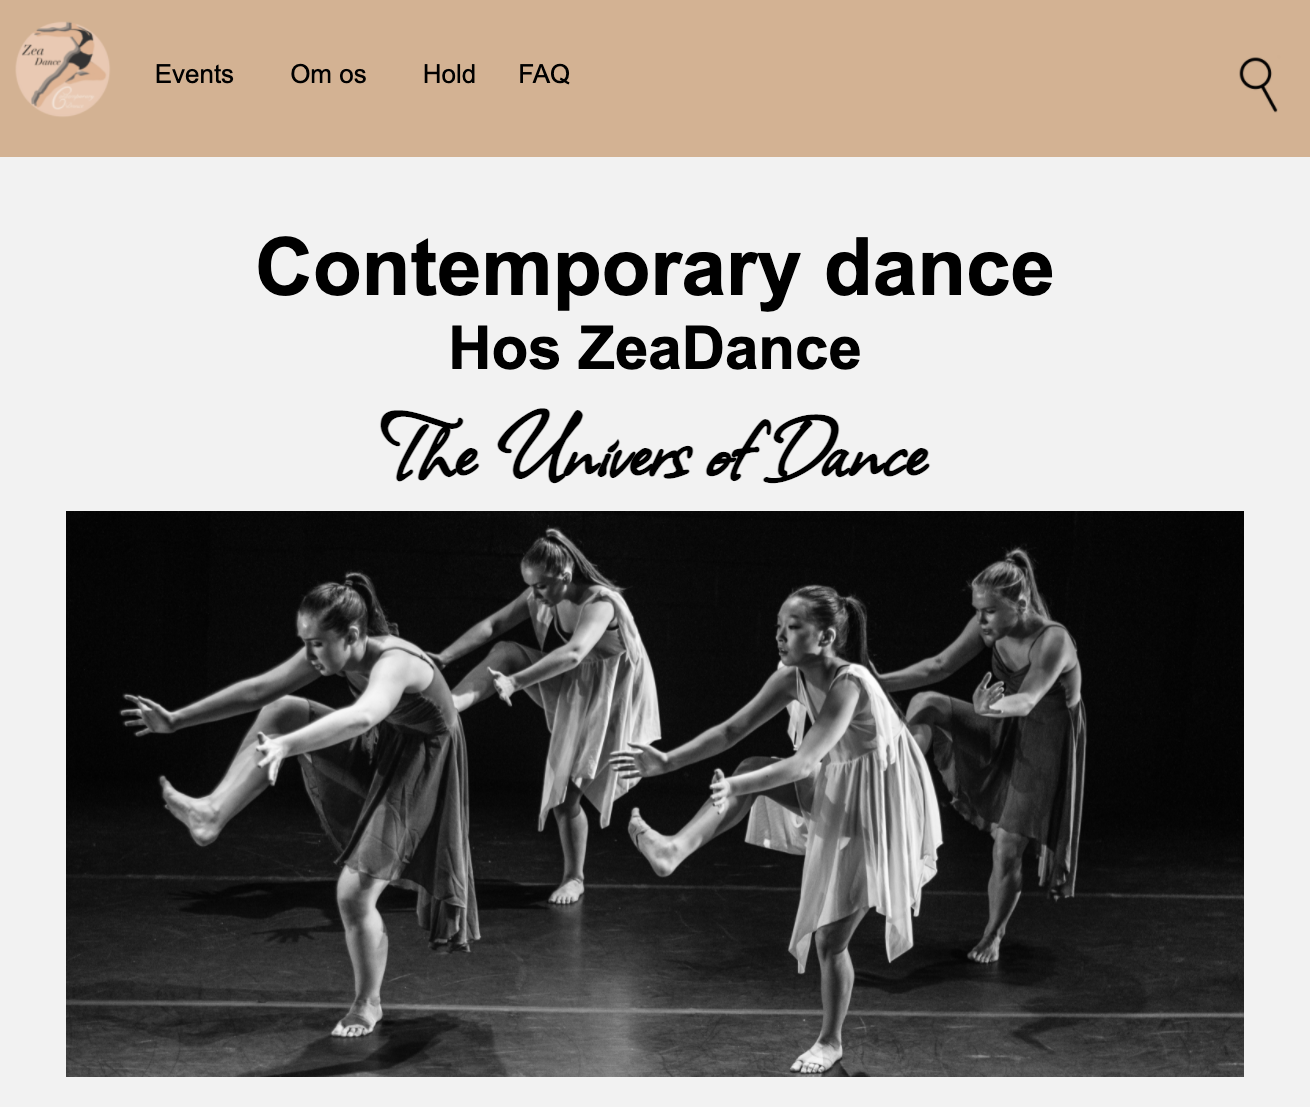
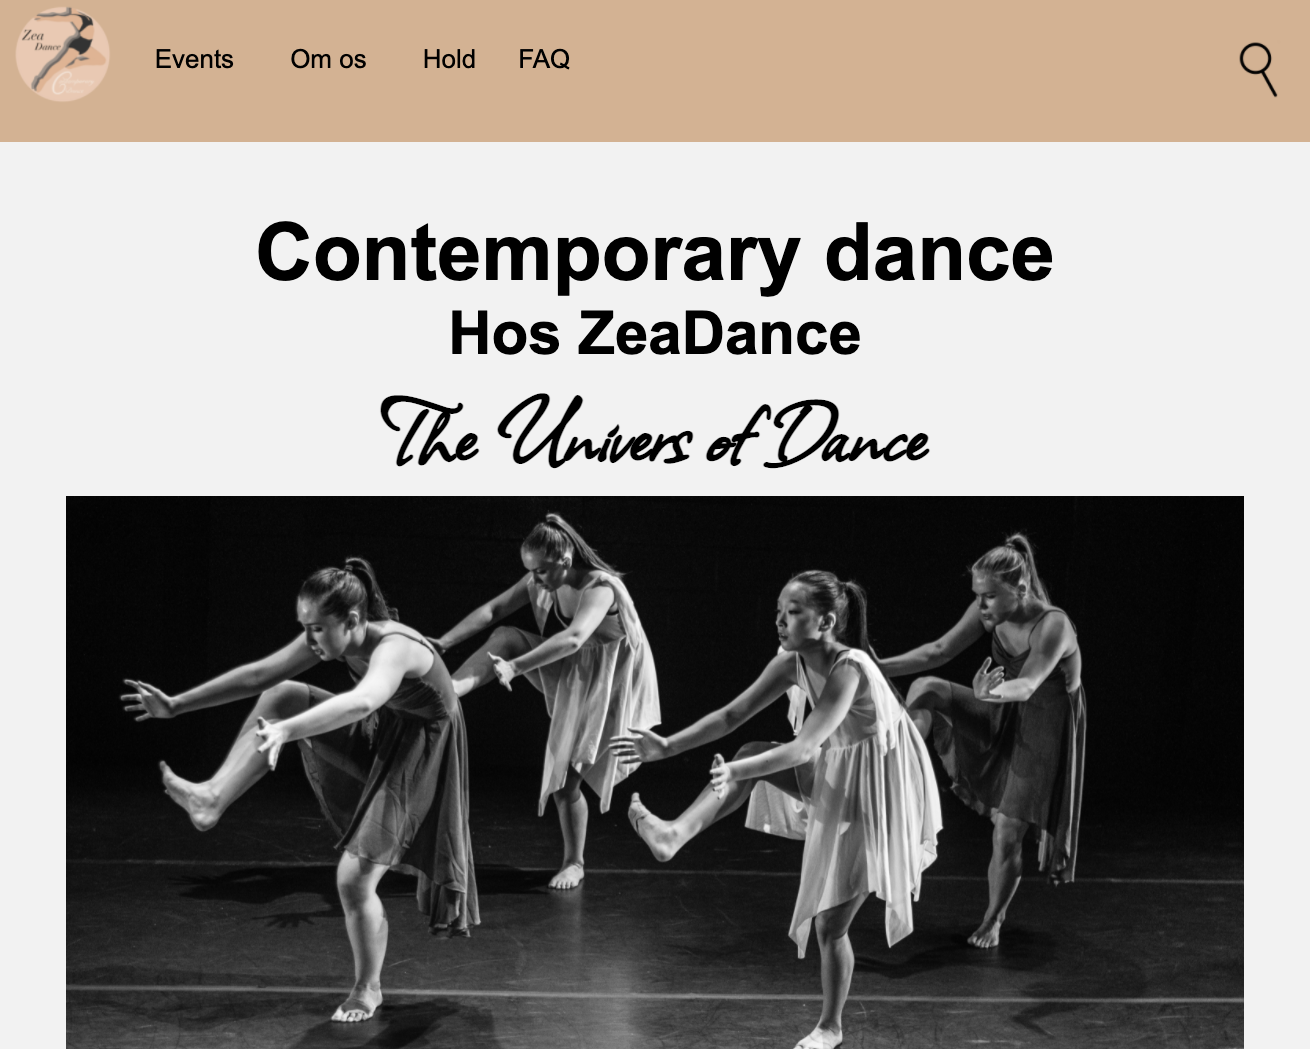
opdateringen d. 13. dec

diff --git a/projekter.html b/projekter.html
@@ -25,37 +25,35 @@
         </ul>
   </header>
 
-
-
 <section>
   <div class="row">
     <div class="column">
       <div class="content">
-        <img src="images/dans.png" alt="Mountains" style="width:100%">
-        <h3>My Work</h3>
-        <p>Lorem ipsum dolor sit amet, tempor prodesset eos no. Temporibus necessitatibus sea ei, at tantas oporteat nam. Lorem ipsum dolor sit amet, tempor prodesset eos no.</p>
+        <a href="dans.html"><img src="images/dans.png" alt="Dana, dans, dans (skole)projekt" style="width:100%"></a>
+        <h3>Dans, dans, dans</h3>
+        <p>Dette var et skole projekt udarbejdet på Zealand campus Køge. Vi arbejdede i grupper og fik udleveret en opgave hvor vi skulle udvikle et koncept samt en hjemmeside. (Tryk på billedet for at læse mere)</p>
       </div>
     </div>
 
     <div class="column">
       <div class="content">
-      <img src="images/dans.png" alt="Lights" style="width:100%">
-        <h3>My Work</h3>
-        <p>Lorem ipsum dolor sit amet, tempor prodesset eos no. Temporibus necessitatibus sea ei, at tantas oporteat nam. Lorem ipsum dolor sit amet, tempor prodesset eos no.</p>
+        <a href="læring.html"><img src="images/Iværksætter.png" alt="iværksætterkonkurrence" style="width:100%"></a>
+        <h3>LivsLæring</h3>
+        <p>Dette projekt var et iværksætterkonkurrence som fandt sted på Zealand campus Køge hvor vi fik til opgave at opfinde et produkt som vi skulle sælge til gæstedommerne (Tryk på billedet for at læse mere)</p>
       </div>
     </div>
 
     <div class="column">
       <div class="content">
-      <img src="images/dans.png" alt="Nature" style="width:100%">
-        <h3>My Work</h3>
-        <p>Lorem ipsum dolor sit amet, tempor prodesset eos no. Temporibus necessitatibus sea ei, at tantas oporteat nam. Lorem ipsum dolor sit amet, tempor prodesset eos no.</p>
+        <a href="video.html"><img src="images/dans.png" alt="Nature" style="width:100%"></a>
+        <h3>Video</h3>
+        <p>Video projektet var et skole projekt udarbejdet med medstuderende på Zealand campus Købe. vii skulle finde på, filme og redigere en How To - video. (Tryk på billedet for at læse mere)</p>
       </div>
     </div>
 
     <div class="column">
       <div class="content">
-      <img src="images/dans.png" alt="Mountains" style="width:100%">
+        <a href="foto.html"><img src="images/dans.png" alt="Mountains" style="width:100%"></a>
         <h3>My Work</h3>
         <p>Lorem ipsum dolor sit amet, tempor prodesset eos no. Temporibus necessitatibus sea ei, at tantas oporteat nam. Lorem ipsum dolor sit amet, tempor prodesset eos no.</p>
       </div>
@@ -63,7 +61,7 @@
 
     <div class="column">
         <div class="content">
-        <img src="images/dans.png" alt="Lights" style="width:100%">
+            <a href="logo.html"><img src="images/dans.png" alt="Lights" style="width:100%"></a>
           <h3>My Work</h3>
           <p>Lorem ipsum dolor sit amet, tempor prodesset eos no. Temporibus necessitatibus sea ei, at tantas oporteat nam. Lorem ipsum dolor sit amet, tempor prodesset eos no.</p>
         </div>
@@ -71,7 +69,7 @@
       
       <div class="column">
         <div class="content">
-        <img src="images/dans.png" alt="Nature" style="width:100%">
+            <a href="illustation.html"><img src="images/dans.png" alt="Nature" style="width:100%"></a>
           <h3>My Work</h3>
           <p>Lorem ipsum dolor sit amet, tempor prodesset eos no. Temporibus necessitatibus sea ei, at tantas oporteat nam. Lorem ipsum dolor sit amet, tempor prodesset eos no.</p>
         </div>

diff --git a/style.css b/style.css
@@ -19,14 +19,18 @@ body {
 }
 
 
-.logocontainer .topnav{
+.topnav{
     font-family: Gothic A1, ExtraLight;
-  margin-bottom: 0;
-  margin-top: 11px;
-  margin-left: opx;
-  width: 150px;
+    margin-bottom: 0;
+    margin-top: 11px;
+    /*margin-left: opx;*/
+    width: 150px;
+    text-align: center;
 }
 
+.nav{
+    text-align: center;
+}
 
 
 /* jeg fik hjælp fra w3schooles til stylingen af navbar (https://www.w3schools.com/howto/tryit.asp?filename=tryhow_js_navbar_sticky)*/
@@ -44,13 +48,10 @@ ul{
     display: flex;
     margin: 0;
     padding: 0;
+    text-align: center;
+
   }
 
-
-
-.topnav{
-    text-align: center;
-}
   
 .topnav a:hover {
     color: black;
@@ -118,7 +119,7 @@ footer{
   
   body {
     padding: 20px;
-    font-family: Arial;
+    font-family: Gothic A1, ExtraLight;
   }
   
   /* Center website */
@@ -137,6 +138,7 @@ footer{
   }
   
   /* Add padding BETWEEN each column */
+  /* dette laver mellemrum mellem boksene*/
   .row, 
   .row > .column {
     padding: 8px;
@@ -164,6 +166,7 @@ footer{
     border-radius: 1px;
     border-color: #fdfffd;
     border-style: solid;
+    font-family: 'Times New Roman', Times, serif;
 
   }
 
@@ -180,9 +183,6 @@ footer{
       width: 100%;
     }
   }
-
-
-
 
 /*her stopper stylinen til side 2 (projekter)*/
 

diff --git a/index.html b/index.html
@@ -22,6 +22,7 @@
         <li><a href="index.html">Forside</a></li>
         <li><a href="projekter.html">Projekter</a></li>
       </ul>
+    </nav>
 </header>
 
 
@@ -45,8 +46,8 @@
 
 <section class="kontakt">
   <h3> Kontakt mig </h3>
-  <div class="facebook">
-    <a href="https://www.facebook.com/"> <img src="images/facebook.png" alt="facebook"></a>
+  <div>
+    <a class="facebook" href="https://www.facebook.com/"> <img src="images/facebook.png" alt="facebook"></a>
   </div>
 </section> 
 
